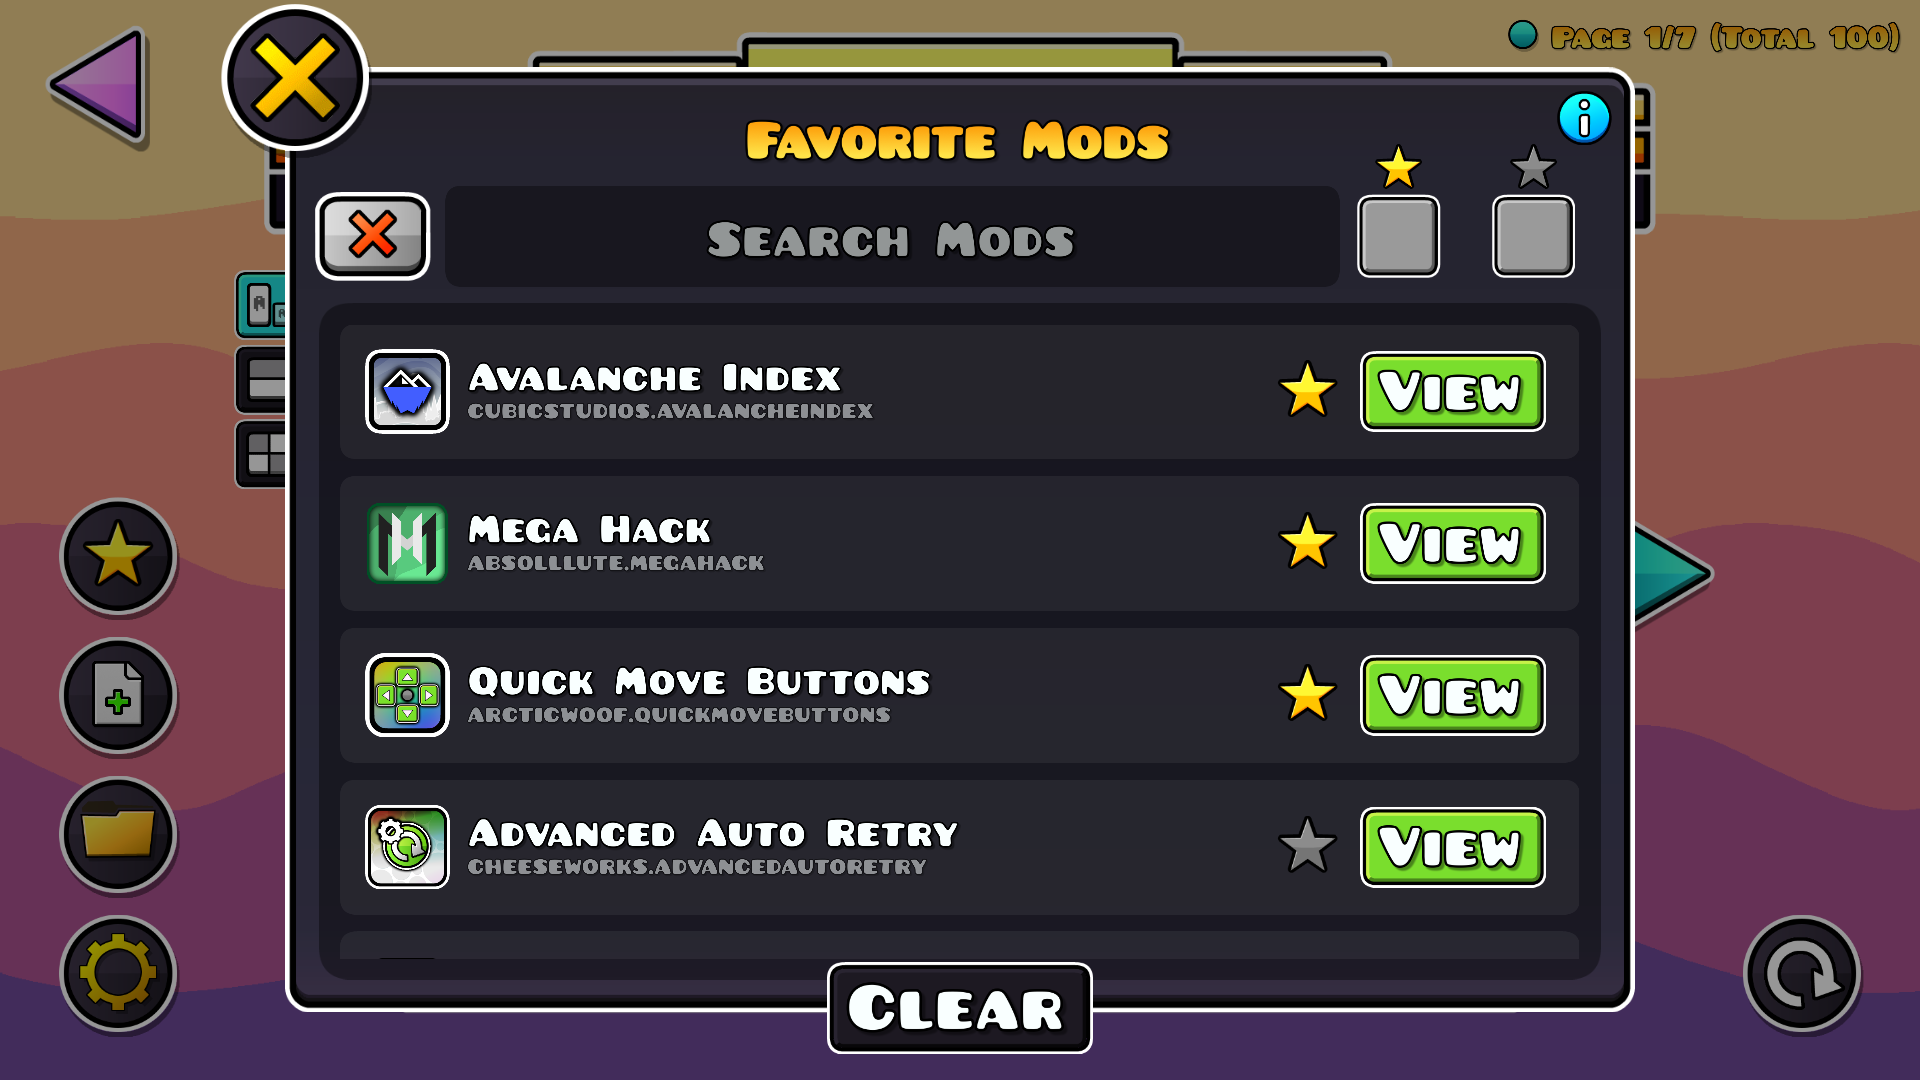
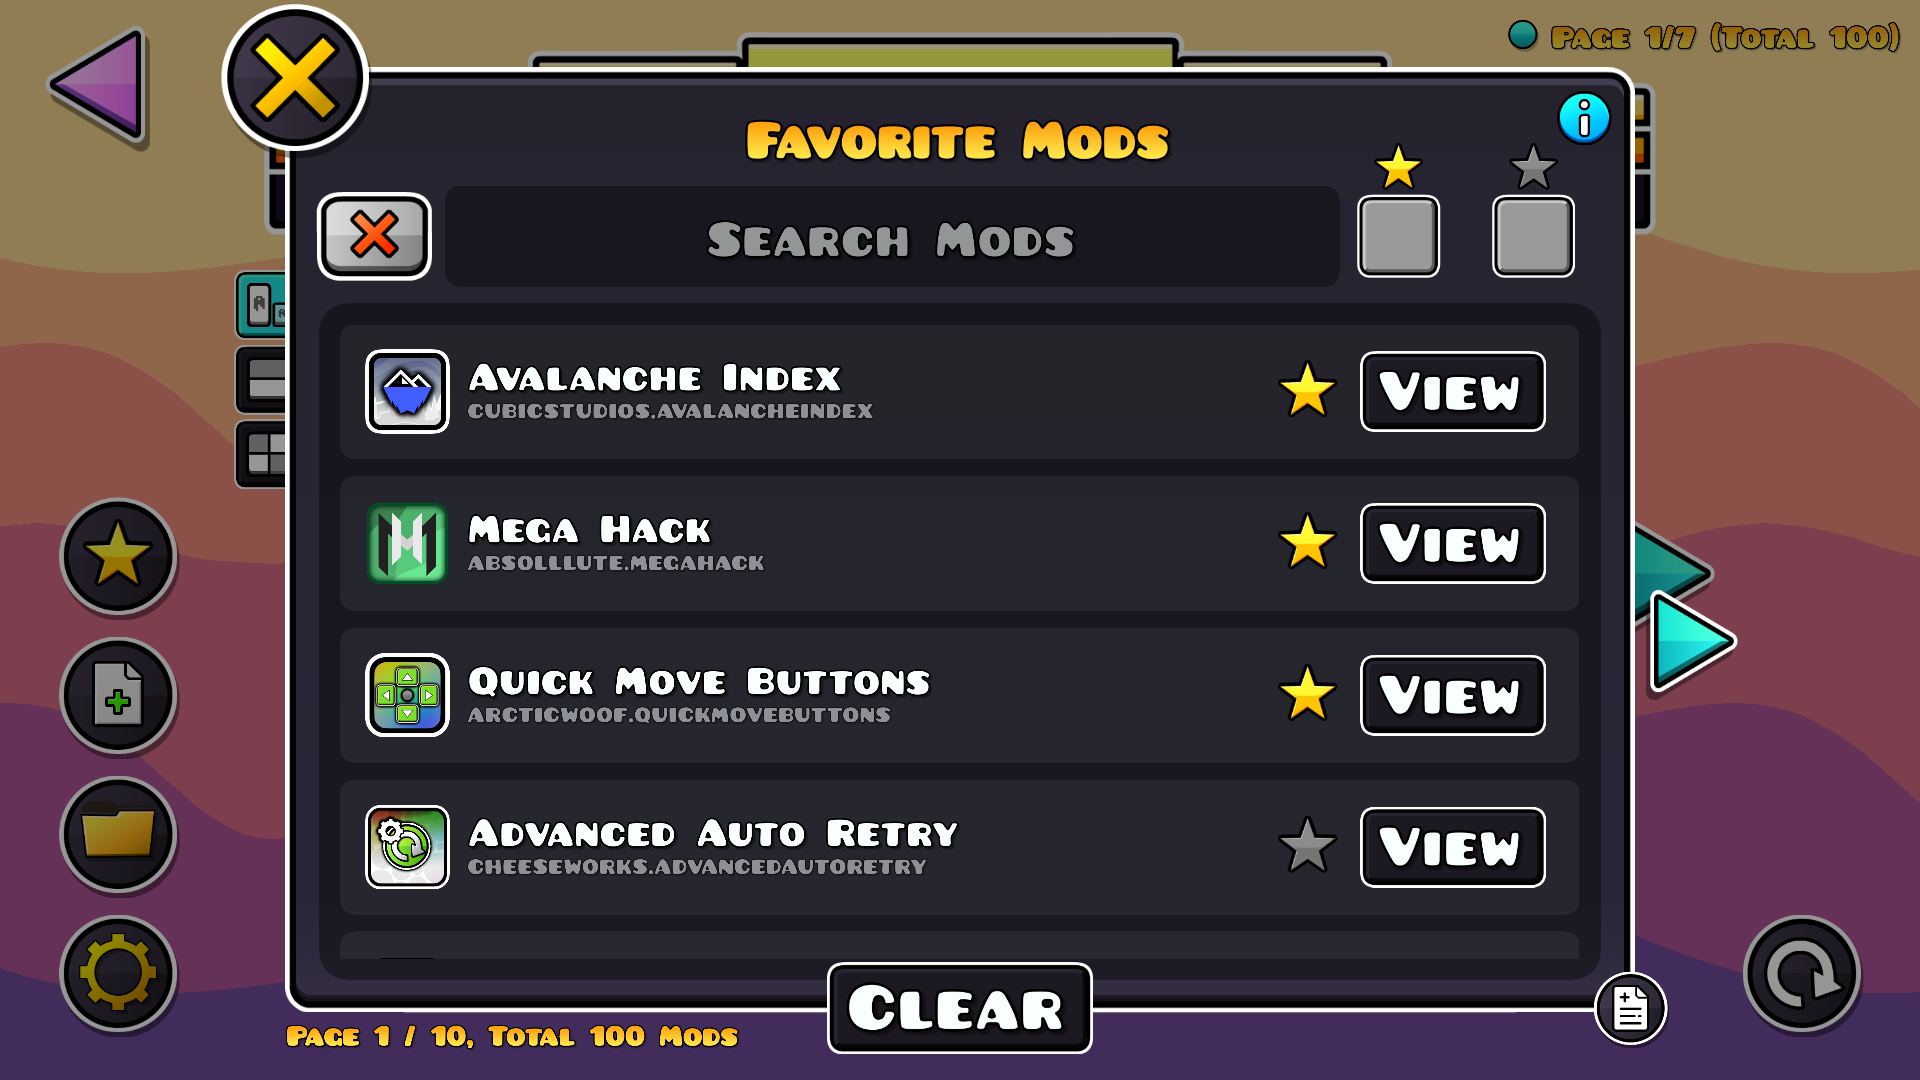
yay previews

diff --git a/src/headers/src/FavoritesPopup.cpp b/src/headers/src/FavoritesPopup.cpp
@@ -277,13 +277,14 @@ bool FavoritesPopup::setup() {
 
     m_overlayMenu->addChild(statsBtn);
 
-    if (m_usePages) {
+    if (m_usePages) { // if the player has pages enabled
         auto pageBtnSpriteName = "GJ_arrow_02_001.png"; // same for both buttons
 
         auto pageForwardBtnSprite = CCSprite::createWithSpriteFrameName(pageBtnSpriteName);
         pageForwardBtnSprite->setScale(0.875f);
         pageForwardBtnSprite->setFlipX(true);
 
+        // create go forward page button
         m_pageForwardBtn = CCMenuItemSpriteExtra::create(
             pageForwardBtnSprite,
             this,
@@ -297,6 +298,7 @@ bool FavoritesPopup::setup() {
         pageBackwardBtnSprite->setScale(0.875f);
         pageBackwardBtnSprite->setFlipX(false);
 
+        // create go back page button
         m_pageBackwardBtn = CCMenuItemSpriteExtra::create(
             pageBackwardBtnSprite,
             this,
@@ -309,7 +311,8 @@ bool FavoritesPopup::setup() {
         m_overlayMenu->addChild(m_pageForwardBtn);
         m_overlayMenu->addChild(m_pageBackwardBtn);
 
-        m_pagesLabel = CCLabelBMFont::create("Loading...", "goldFont.fnt");
+        // create pages label
+        m_pagesLabel = CCLabelBMFont::create("Loading pages...", "goldFont.fnt");
         m_pagesLabel->setID("pages-label");
         m_pagesLabel->setAnchorPoint({ 0, 1 });
         m_pagesLabel->setPosition({ m_thisMod->getSettingValue<bool>("settings-btn") ? 20.f : 0.f, -1.25f });
@@ -331,10 +334,8 @@ bool FavoritesPopup::setup() {
 
 void FavoritesPopup::loadModList(std::vector<Mod*> allMods) {
     for (Mod* mod : allMods) { // Add all mod items to scrolllayer
-        bool list = m_thisMod->getSettingValue<bool>("enabled-only") ? mod->isOrWillBeEnabled() : true;
-        if (list) m_scrollLayer->m_contentLayer->addChild(ModItem::create(mod, { m_scrollLayer->getScaledContentWidth(), 40.f }, this, m_geodeTheme, m_heartIcons));
-
-        log::debug("{} list item for mod {}", list ? "Processed" : "Skipped", mod->getID());
+        m_scrollLayer->m_contentLayer->addChild(ModItem::create(mod, { m_scrollLayer->getScaledContentWidth(), 40.f }, this, m_geodeTheme, m_heartIcons));
+        log::debug("Processed list item for mod {}", mod->getID());
     };
 };
 
@@ -353,22 +354,29 @@ void FavoritesPopup::refreshModList(bool clearSearch) {
     std::vector<Mod*> filteredMods;
 
     for (Mod* mod : allMods) {
-        auto empty = std::string::npos; // dry code xd
-        bool isFavorited = m_thisMod->getSavedValue<bool>(mod->getID(), false);
+        // if the player only wants to show enabled mods
+        bool list = m_thisMod->getSettingValue<bool>("enabled-only") ? mod->isOrWillBeEnabled() : true;
 
-        // evil lines >:3
-        bool matchesSearch = (m_searchText.empty() && (mod->getID() != std::string("geode.loader"))) // Skip geode by default
-            || toLowercase(mod->getName()).find(toLowercase(m_searchText)) != empty // search via name
-            || toLowercase(mod->getDescription().value_or(mod->getName())).find(toLowercase(m_searchText)) != empty // search via description
-            || toLowercase(mod->getID()).find(toLowercase(m_searchText)) != empty; // search via id
+        if (list) {
+            auto empty = std::string::npos; // dry code xd
+            bool isFavorited = m_thisMod->getSavedValue<bool>(mod->getID(), false);
 
-        // If favorites-only is enabled, only show favorited mods
-        if (m_showFavoritesOnly) {
-            if (isFavorited && matchesSearch) filteredMods.push_back(mod);
-        } else if (m_hideFavorites) { // If hide favorites is enabled, only show non-favorited mods
-            if (!isFavorited && matchesSearch) filteredMods.push_back(mod);
-        } else { // Normal mode: show all matching mods, with favorites prioritized
-            if (matchesSearch) filteredMods.push_back(mod);
+            // evil lines >:3
+            bool matchesSearch = (m_searchText.empty() && (mod->getID() != std::string("geode.loader"))) // Skip geode by default
+                || toLowercase(mod->getName()).find(toLowercase(m_searchText)) != empty // search via name
+                || toLowercase(mod->getDescription().value_or(mod->getName())).find(toLowercase(m_searchText)) != empty // search via description
+                || toLowercase(mod->getID()).find(toLowercase(m_searchText)) != empty; // search via id
+
+            // If favorites-only is enabled, only show favorited mods
+            if (m_showFavoritesOnly) {
+                if (isFavorited && matchesSearch) filteredMods.push_back(mod);
+            } else if (m_hideFavorites) { // If hide favorites is enabled, only show non-favorited mods
+                if (!isFavorited && matchesSearch) filteredMods.push_back(mod);
+            } else { // Normal mode: show all matching mods, with favorites prioritized
+                if (matchesSearch) filteredMods.push_back(mod);
+            };
+        } else {
+            log::warn("Skipping disabled mod {}", mod->getID());
         };
     };
 
@@ -414,7 +422,7 @@ void FavoritesPopup::refreshModList(bool clearSearch) {
             loadModList(std::vector<Mod*>(filteredMods.begin() + startIndex, filteredMods.begin() + endIndex));
 
             if (m_pagesLabel) {
-                auto pageText = fmt::format("Page {} / {}, Total {} Mods", p_page, p_totalPages, p_totalItems);
+                auto pageText = fmt::format("Page {}/{}, Total {} Mods", p_page, p_totalPages, p_totalItems);
                 m_pagesLabel->setCString(pageText.c_str());
             } else {
                 log::error("Couldn't find page count label");
